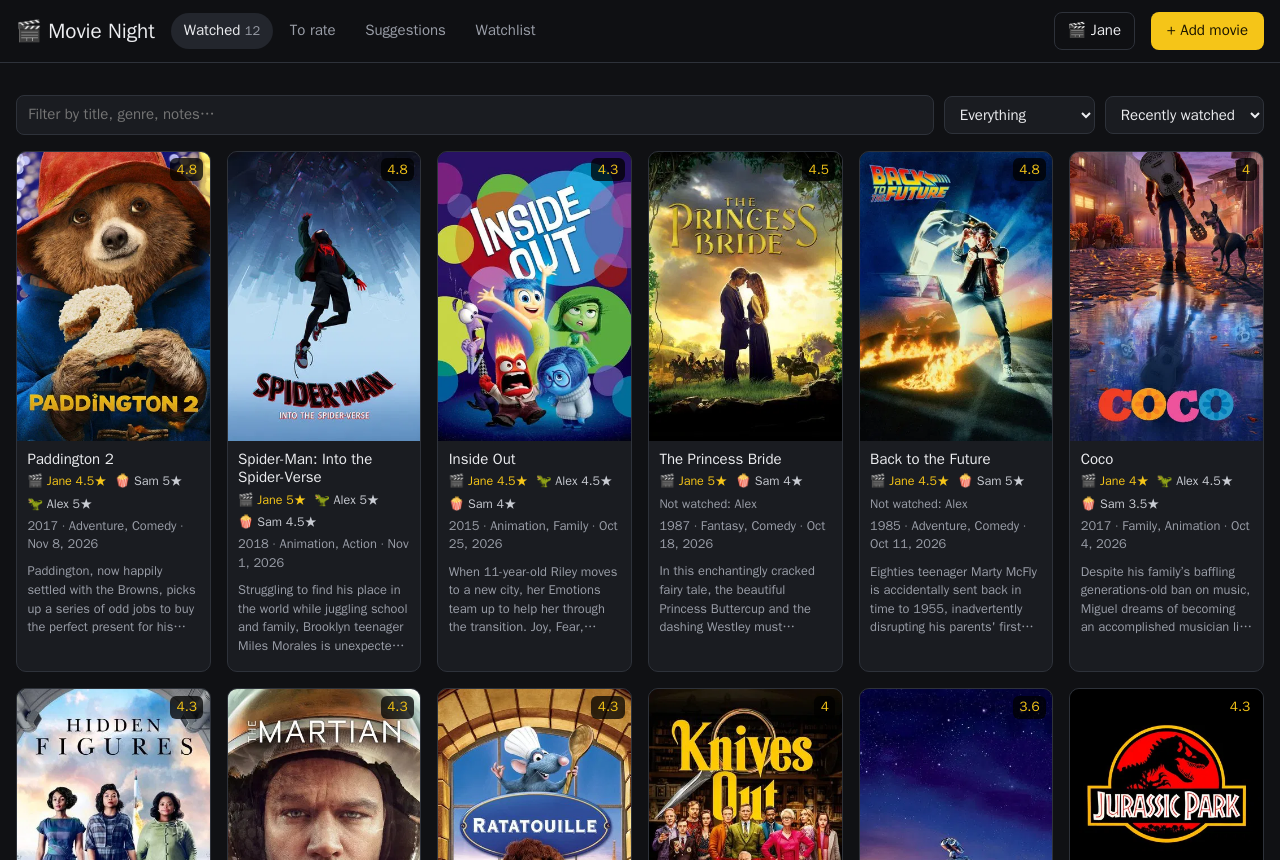
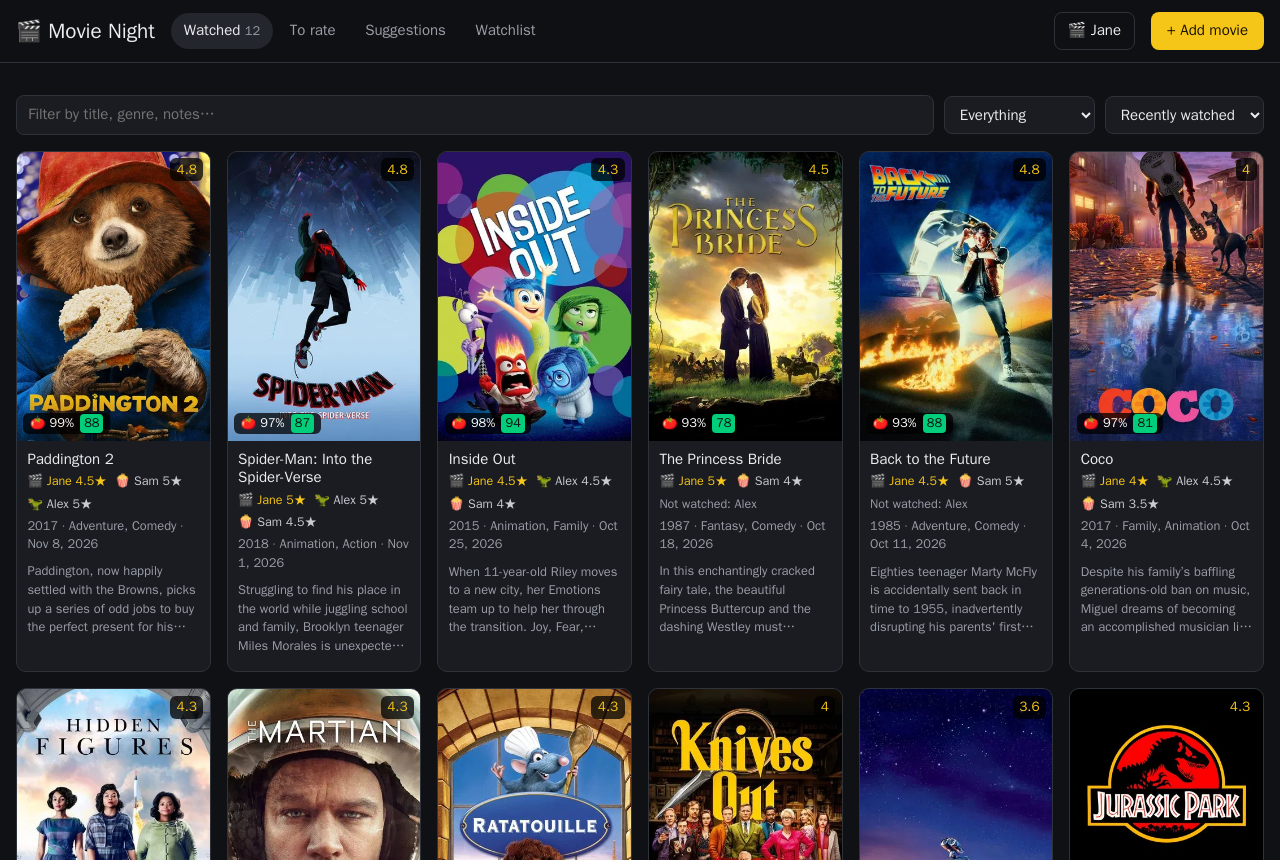
Critic badges on Watched cards too (looked up for the cards on screen)

diff --git a/static/app.js b/static/app.js
@@ -115,7 +115,7 @@ function watchedCard(m) {
   const mine = myWatch(m);
   const badge = m.avg_rating ? (m.avg_rating / 2).toFixed(1).replace(/\.0$/, "") : "";
   const notes = m.watches.filter((w) => w.notes).map((w) => `<div class="notes">“${esc(w.notes)}” <span class="muted">· ${esc(person(w.person_id)?.name || "")}</span></div>`).join("");
-  return `<article class="card" data-id="${m.id}">
+  return `<article class="card" data-id="${m.id}" data-tmdb="${m.tmdb_id ?? ""}">
     ${poster(m, badge)}
     <div class="body">
       <div class="title">${esc(m.title)}</div>
@@ -309,6 +309,7 @@ function renderWatched() {
   }[sort];
   list = list.sort(by);
   $("#watched-grid").innerHTML = list.slice(0, state.watchedShown).map(watchedCard).join("");
+  fillRT($("#watched-grid"));               // critic badges for the cards on screen only
   const more = $("#watched-more");
   more.hidden = list.length <= state.watchedShown;
   more.textContent = `Show more (${list.length - state.watchedShown} left)`;

diff --git a/README.md b/README.md
@@ -25,7 +25,7 @@ then get suggestions for one person or any group watching together.
   - *Ask Claude*: sends the whole rated list (with notes) plus an optional mood ("something light for Friday")
     to Claude, which returns 8 picks with a reason for each. For a group it looks for common ground. Uses `claude-opus-5-5` (override with `CLAUDE_MODEL`).
     Each click costs a few cents.
-  - With an OMDb key, suggestion and watchlist cards also show the **Rotten Tomatoes** Tomatometer
+  - With an OMDb key, suggestion, watchlist and Watched cards also show the **Rotten Tomatoes** Tomatometer
     (🍅 fresh at 60%+, 🤢 rotten) and the **Metacritic** Metascore (green 61+, yellow 40–60, red under 40).
     The critics also nudge the ranking: the average of the two scores (or whichever exists) multiplies a
     movie's score, from ×1.2 at 100 down to ×0.7 at 0, with 60 neutral. Your own ratings still matter most;
@@ -89,7 +89,7 @@ Keys:
   which Emby users are imported, `EMBY_SYNC_HOURS=0` for button-only.
 - `ANTHROPIC_API_KEY`: https://console.anthropic.com/settings/keys. Only needed for Ask Claude.
 - `OMDB_API_KEY`: free at https://www.omdbapi.com/apikey.aspx (activate it from the email). Only needed for
-  Rotten Tomatoes / Metacritic scores and the critics boost; they're cached for a week, so the free 1,000 lookups a day is plenty.
+  Rotten Tomatoes / Metacritic scores and the critics boost; they're cached for a week, so the free 1,000 lookups a day is plenty (Watched only looks up the cards on screen, 60 at a time).
 
 TMDB responses are cached in the DB for 7 days, so the Suggestions tab is fast after the first load.
 
